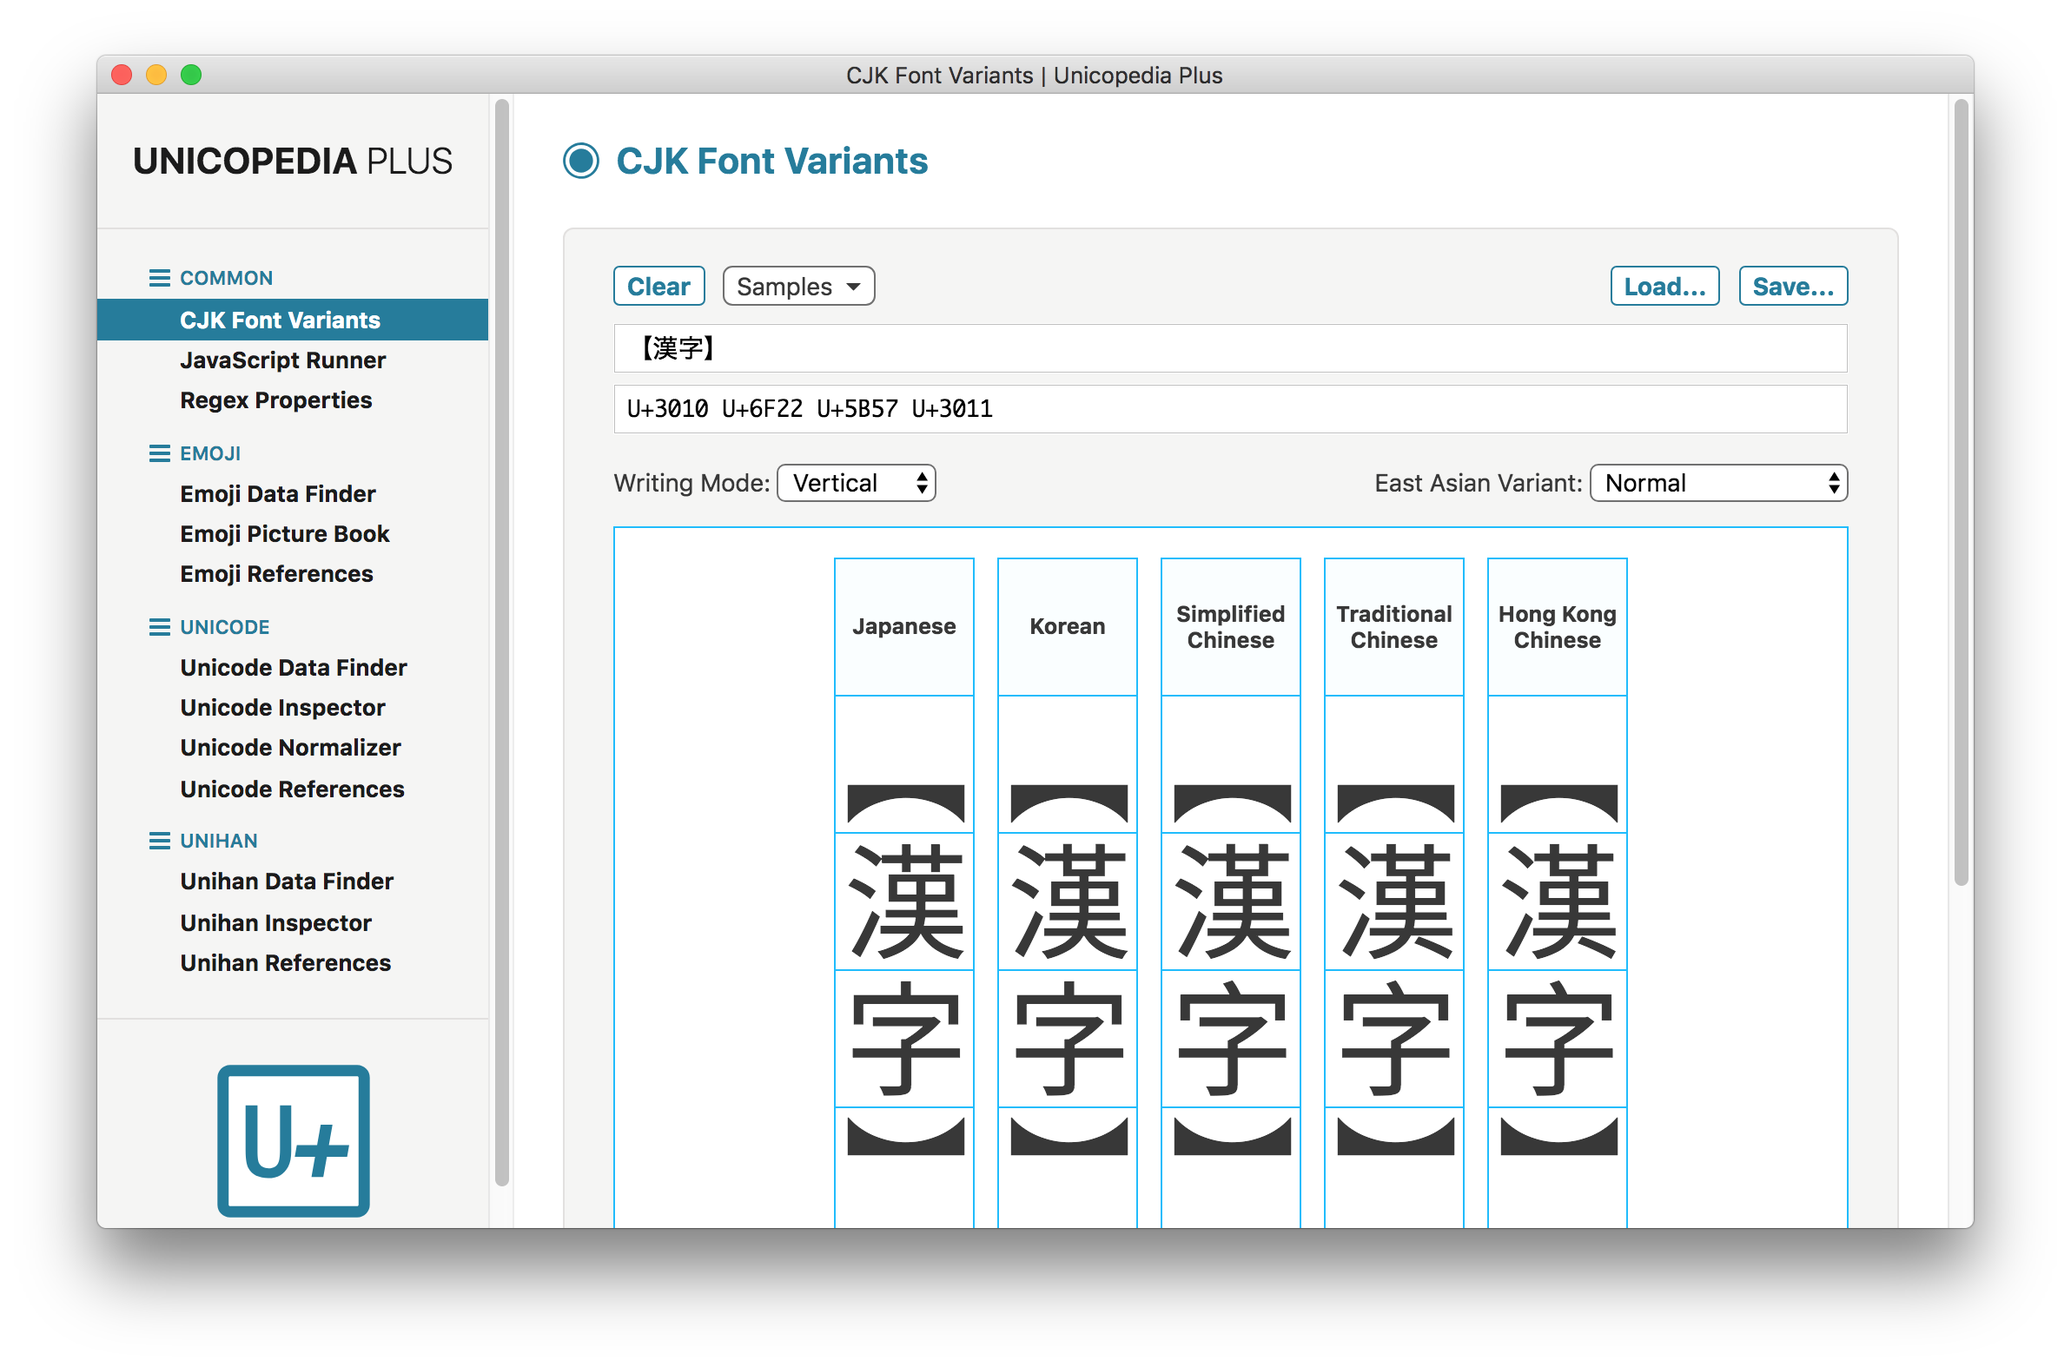
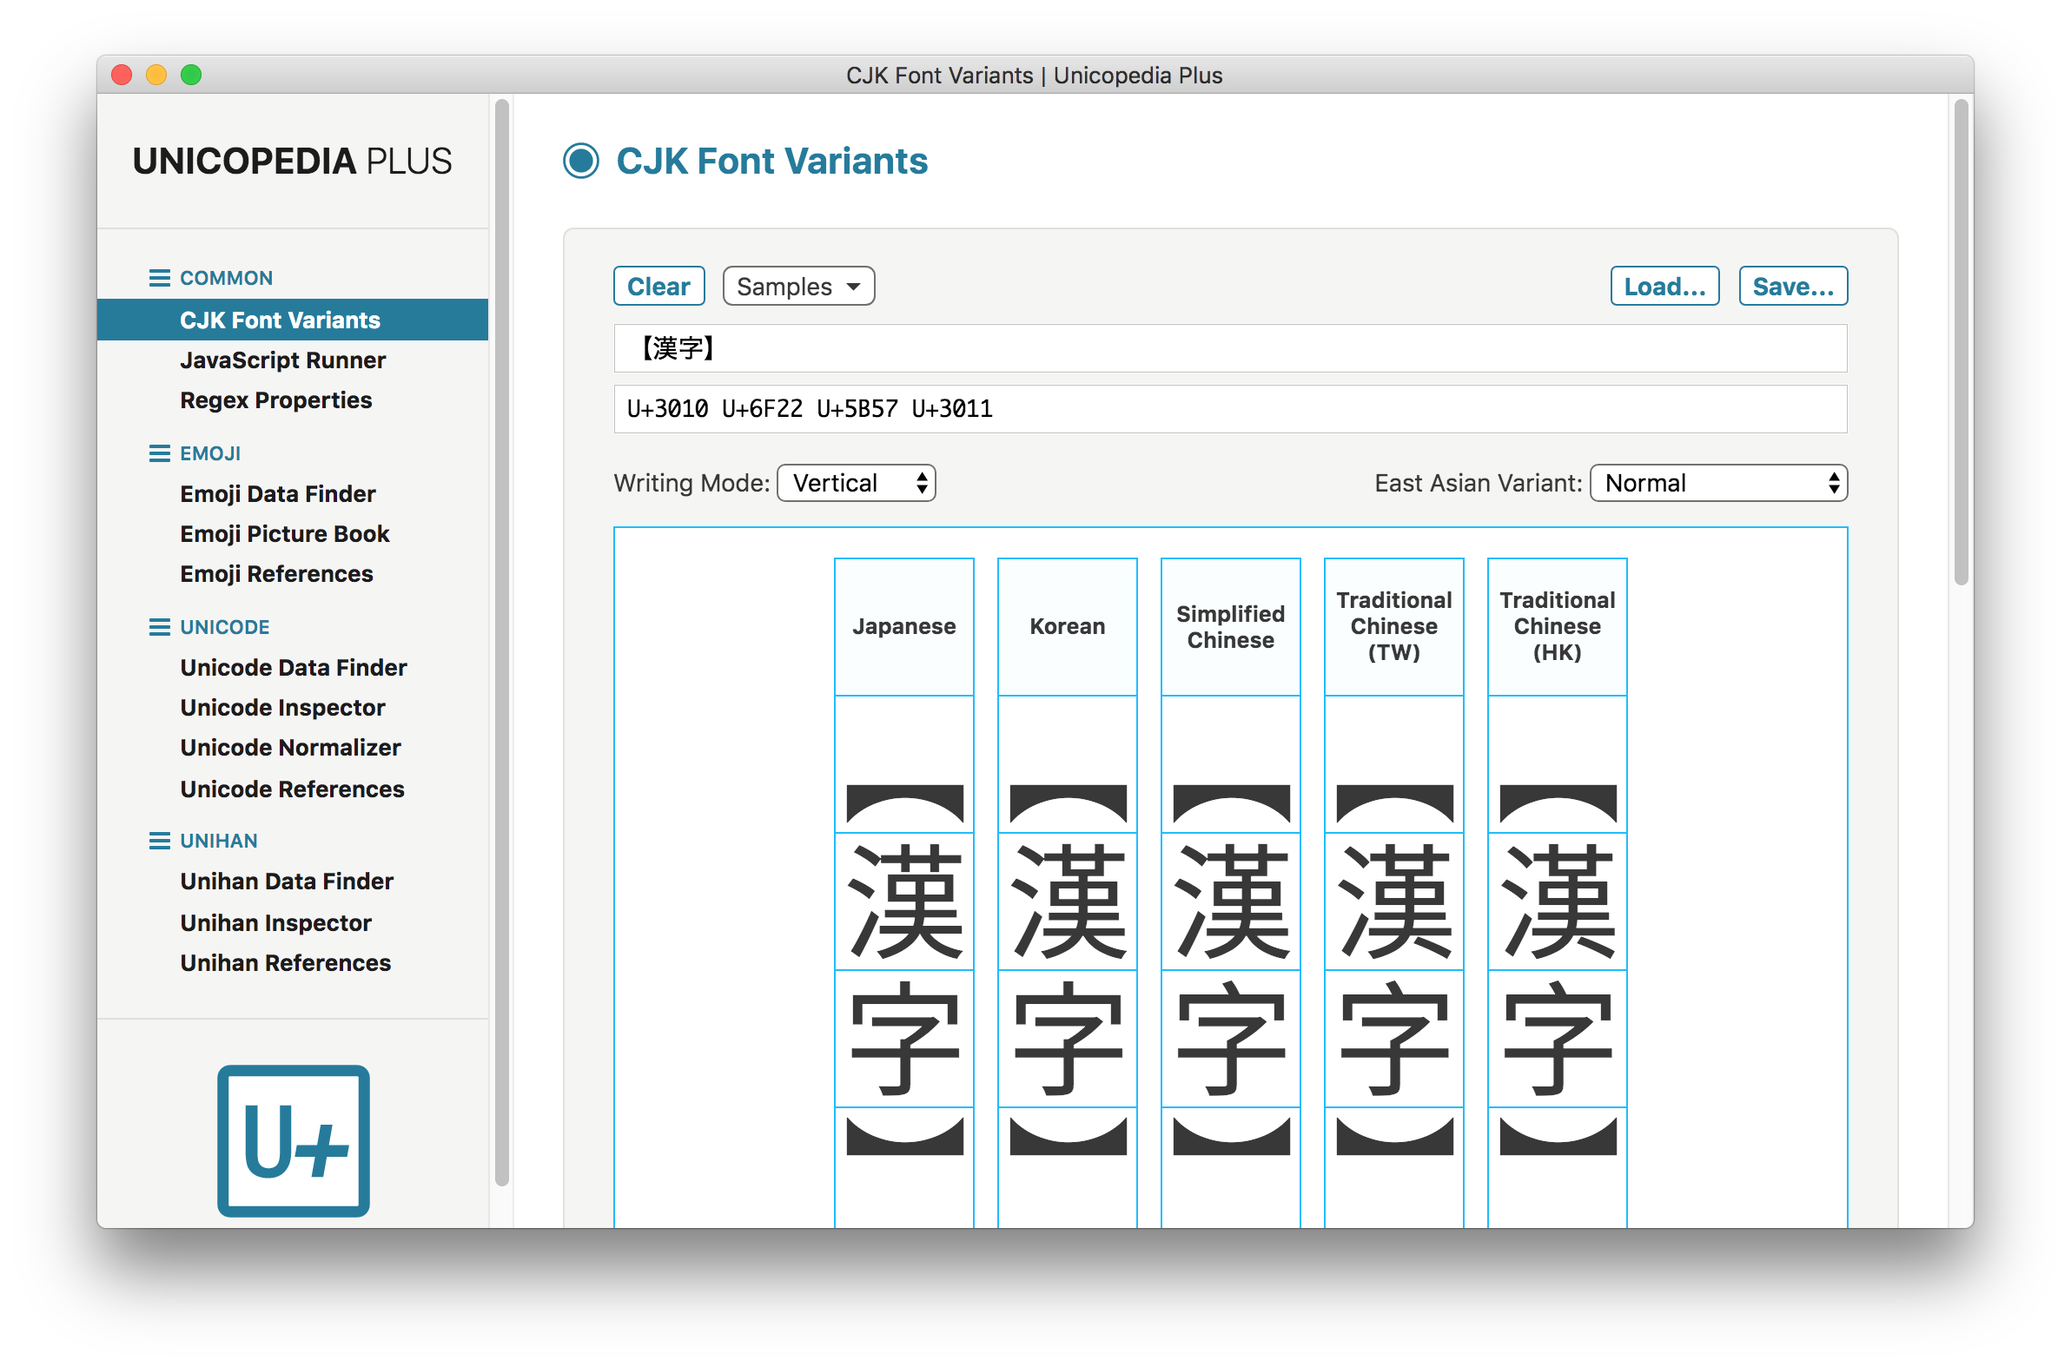
Updated app to 5.6.1

Changed region(s): [[0.9312, 0.4358, 0.9622, 0.6537], [0.6518, 0.4358, 0.776, 0.4981]]

diff --git a/renderer/units/Unihan Inspector/import.html b/renderer/units/Unihan Inspector/import.html
@@ -38,18 +38,28 @@
                     </li>
                     <li>Previously looked up Unihan characters are kept in a history stack; use the <kbd>Alt</kbd>+<kbd>↑</kbd> and <kbd>Alt</kbd>+<kbd>↓</kbd> keyboard shortcuts to navigate through them up and down inside the input field.</li>
                     <li>It is also possible to lookup a randomly selected Unihan character by clicking on the <kbd>Random</kbd> button; use the <kbd>Full Set</kbd> checkbox to perform the draw on the full set of 88,889 Unihan characters, or restrict it to the IICore set of 9,810 CJK unified ideographs in common usage.</li>
-                    <li>The currently looked up Unihan character is displayed at a large scale, followed by its code point; click on <kbd>◀</kbd> or <kbd>▶</kbd> to step through several different CJK typefaces, among: <code>JP</code> (Japanese), <code>KR</code> (Korean), <code>SC</code> (Simplified Chinese), <code>TC</code> (Traditional Chinese), <code>HK</code> (Hong Kong Chinese). Double-click on the two-letter language tag to toggle between these five CJK typefaces and the system default typeface.</li>
+                    <li>The currently looked up Unihan character is displayed at a large scale, followed by its code point.</li>
+                    <li>Click on <kbd>◀</kbd> or <kbd>▶</kbd> to step through five different CJK typefaces, among:
+                        <ul>
+                            <li><code>JP</code>: Japanese</li>
+                            <li><code>KR</code>: Korean</li>
+                            <li><code>SC</code>: Simplified Chinese</li>
+                            <li><code>TC</code>: Traditional Chinese (Taiwan)</li>
+                            <li><code>HK</code>: Traditional Chinese (Hong Kong)</li>
+                        </ul>
+                    </li>
+                    <li>Double-click on the two-letter language tag to toggle between these five CJK typefaces and the system default typeface.</li>
                     <li>Use the <kbd>Categories</kbd> checkbox to toggle between: all Unihan tags ordered alphabetically, or grouped by categories.</li>
                     <li>Variant characters, if any, are listed under several classes in the basic Unihan information panel, excluding the looked up character itself:
                         <ul>
-                            <li><code>Unified Variant</code>: decomposition of the looked up character.</li>
-                            <li><code>Compatibility Variants</code>: characters whose decomposition is the looked up character.</li>
-                            <li><code>Semantic Variants</code>: characters listed under the <em>kSemanticVariant</em> Unihan tag.</li>
-                            <li><code>Specialized Variants</code>: characters listed under the <em>kSpecializedSemanticVariant</em> Unihan tag.</li>
-                            <li><code>Shape Variants</code> characters listed under the <em>kZVariant</em> Unihan tag.</li>
-                            <li><code>Simplified Variants</code>: characters listed under the <em>kSimplifiedVariant</em> Unihan tag.</li>
-                            <li><code>Traditional Variants</code>: characters listed under the <em>kTraditionalVariant</em> Unihan tag.</li>
-                            <li><code>Yasuoka Variants</code>: characters drawn from the "Variants table for Unicode" data file <a title="http://kanji.zinbun.kyoto-u.ac.jp/~yasuoka/ftp/CJKtable/UniVariants.Z" href="http://kanji.zinbun.kyoto-u.ac.jp/~yasuoka/ftp/CJKtable/UniVariants.Z">UniVariants.txt</a> provided by Prof. <a title="http://kanji.zinbun.kyoto-u.ac.jp/~yasuoka/" href="http://kanji.zinbun.kyoto-u.ac.jp/~yasuoka/">Kōichi Yasuoka</a>.</li>
+                            <li><code>Unified Variant</code>: decomposition of the looked up character</li>
+                            <li><code>Compatibility Variants</code>: characters whose decomposition is the looked up character</li>
+                            <li><code>Semantic Variants</code>: characters listed under the <em>kSemanticVariant</em> Unihan tag</li>
+                            <li><code>Specialized Variants</code>: characters listed under the <em>kSpecializedSemanticVariant</em> Unihan tag</li>
+                            <li><code>Shape Variants</code> characters listed under the <em>kZVariant</em> Unihan tag</li>
+                            <li><code>Simplified Variants</code>: characters listed under the <em>kSimplifiedVariant</em> Unihan tag</li>
+                            <li><code>Traditional Variants</code>: characters listed under the <em>kTraditionalVariant</em> Unihan tag</li>
+                            <li><code>Yasuoka Variants</code>: characters drawn from the "Variants table for Unicode" data file <a title="http://kanji.zinbun.kyoto-u.ac.jp/~yasuoka/ftp/CJKtable/UniVariants.Z" href="http://kanji.zinbun.kyoto-u.ac.jp/~yasuoka/ftp/CJKtable/UniVariants.Z">UniVariants.txt</a> provided by Prof. <a title="http://kanji.zinbun.kyoto-u.ac.jp/~yasuoka/" href="http://kanji.zinbun.kyoto-u.ac.jp/~yasuoka/">Kōichi Yasuoka</a></li>
                         </ul>
                     </li>
                     <li>Notes:

diff --git a/renderer/units/Unihan Inspector/import.js b/renderer/units/Unihan Inspector/import.js
@@ -75,10 +75,10 @@ module.exports.start = function (context)
     const languages =
     {
         "ja": { label: "JP", title: "Japanese typeface" },
-        "ko":  { label: "KR", title: "Korean typeface" },
+        "ko": { label: "KR", title: "Korean typeface" },
         "zh-Hans": { label: "SC", title: "Simplified Chinese typeface" },
-        "zh-Hant": { label: "TC", title: "Traditional Chinese typeface" },
-        "zh-HK": { label: "HK", title: "Hong Kong Chinese typeface" }
+        "zh-Hant-TW": { label: "TC", title: "Traditional Chinese (Taiwan) typeface" },
+        "zh-Hant-HK": { label: "HK", title: "Traditional Chinese (Hong Kong) typeface" }
     };
     const languageKeys = Object.keys (languages);
     //
@@ -343,6 +343,7 @@ module.exports.start = function (context)
                     { name: "Definition", value: definitionValue, class: 'line-clamp' },
                     { name: "Numeric Value", value: numericValue },
                     { name: "Set", value: iiCoreSet },
+                    // null,
                     { name: "Unified Variant", value: unified, separator: " " },
                     { name: "Compatibility Variants", value: compatibility, separator: " " },
                     { name: "Semantic Variants", value: semantic, separator: " " },
@@ -355,7 +356,12 @@ module.exports.start = function (context)
                 //
                 for (let unihanField of unihanFields)
                 {
-                    if (unihanField.value)
+                    if (!unihanField)
+                    {
+                        let lineBreak = document.createElement ('br');
+                        unihanInfo.appendChild (lineBreak);
+                    }
+                    else if (unihanField.value)
                     {
                         let field = document.createElement ('div');
                         field.className = 'field';

diff --git a/renderer/units/CJK Font Variants/import.js b/renderer/units/CJK Font Variants/import.js
@@ -139,11 +139,11 @@ module.exports.start = function (context)
     //
     const languages =
     [
-        { header: "Japanese", tag: 'ja', code: "JP" },
-        { header: "Korean", tag: 'ko', code: "KR" },
-        { header: "Simplified Chinese", tag: 'zh-Hans', code: "SC" },
-        { header: "Traditional Chinese", tag: 'zh-Hant', code: "TC" },
-        { header: "Hong\xA0Kong Chinese", tag: 'zh-HK', code: "HK" }
+        { name: "Japanese", tag: 'ja', code: "JP" },
+        { name: "Korean", tag: 'ko', code: "KR" },
+        { name: "Simplified Chinese", tag: 'zh-Hans', code: "SC" },
+        { name: "Traditional Chinese (TW)", tag: 'zh-Hant-TW', code: "TC" },
+        { name: "Traditional Chinese (HK)", tag: 'zh-Hant-HK', code: "HK" }
     ];
     //
     const useFooter = true;
@@ -279,7 +279,7 @@ module.exports.start = function (context)
                         header.className = 'cjk-title';
                         header.title = `Code: ${language.code}\nlang="${language.tag}"`;
                         let span = document.createElement ('span');
-                        span.textContent = language.header;
+                        span.textContent = language.name;
                         header.appendChild (span);
                         headerRow.appendChild (header);
                     }
@@ -366,7 +366,7 @@ module.exports.start = function (context)
                         header.title = `Code: ${language.code}\nlang="${language.tag}"`;
                         let span = document.createElement ('span');
                         span.className = 'cjk-lang';
-                        span.textContent = language.header;
+                        span.textContent = language.name;
                         header.appendChild (span);
                         dataRow.appendChild (header);
                         wideCharacters.forEach

diff --git a/renderer/units/CJK Font Variants/import.html b/renderer/units/CJK Font Variants/import.html
@@ -65,8 +65,8 @@
                             <tr><td>Japanese</td><td class="code">JP</td><td>Noto Sans CJK JP Regular</td></tr>
                             <tr><td>Korean</td><td class="code">KR</td><td>Noto Sans CJK KR Regular</td></tr>
                             <tr><td>Simplified Chinese</td><td class="code">SC</td><td>Noto Sans CJK SC Regular</td></tr>
-                            <tr><td>Traditional Chinese</td><td class="code">TC</td><td>Noto Sans CJK TC Regular</td></tr>
-                            <tr><td>Hong Kong Chinese</td><td class="code">HK</td><td>Noto Sans CJK HK Regular</td></tr>
+                            <tr><td>Traditional Chinese (Taiwan)</td><td class="code">TC</td><td>Noto Sans CJK TC Regular</td></tr>
+                            <tr><td>Traditional Chinese (Hong Kong)</td><td class="code">HK</td><td>Noto Sans CJK HK Regular</td></tr>
                         </table>
                     </li>
                     <li>Additionally, it is possible to specify a set of logographic glyph variants for display by using the <kbd>East Asian Variant</kbd> drop-down menu.</li>

diff --git a/renderer/units/CJK Font Variants/import.css b/renderer/units/CJK Font Variants/import.css
@@ -81,14 +81,14 @@
     font-family: "Sans CJK SC", "NotDef";
 }
 
-#cjk-font-variants-unit .cjk-data-base:lang(zh-Hant),
-#cjk-font-variants-unit .cjk-data-overlay:lang(zh-Hant)
+#cjk-font-variants-unit .cjk-data-base:lang(zh-Hant-TW),
+#cjk-font-variants-unit .cjk-data-overlay:lang(zh-Hant-TW)
 {
     font-family: "Sans CJK TC", "NotDef";
 }
 
-#cjk-font-variants-unit .cjk-data-base:lang(zh-HK),
-#cjk-font-variants-unit .cjk-data-overlay:lang(zh-HK)
+#cjk-font-variants-unit .cjk-data-base:lang(zh-Hant-HK),
+#cjk-font-variants-unit .cjk-data-overlay:lang(zh-Hant-HK)
 {
     font-family: "Sans CJK HK", "NotDef";
 }

diff --git a/main.js b/main.js
@@ -22,8 +22,7 @@ else
                 {
                     mainWindow.restore ();
                 }
-                // mainWindow.focus ();
-                mainWindow.show (); // Work around Electron v6.x.x bug on macOS...
+                mainWindow.show ();
             }
         }
     );
@@ -97,7 +96,7 @@ else
         }
         else
         {
-            licenseWindow.focus ();
+            licenseWindow.show ();
         }
     }
     //

diff --git a/renderer/units/Unihan Inspector/import.css b/renderer/units/Unihan Inspector/import.css
@@ -65,12 +65,12 @@
     font-family: "Sans CJK SC", "NotDef";
 }
 
-#unihan-inspector-unit .unihan-character:lang(zh-Hant)
+#unihan-inspector-unit .unihan-character:lang(zh-Hant-TW)
 {
     font-family: "Sans CJK TC", "NotDef";
 }
 
-#unihan-inspector-unit .unihan-character:lang(zh-HK)
+#unihan-inspector-unit .unihan-character:lang(zh-Hant-HK)
 {
     font-family: "Sans CJK HK", "NotDef";
 }

diff --git a/README.md b/README.md
@@ -40,8 +40,8 @@ The following utilities are currently available:
 | Japanese | JP | Noto Sans CJK JP Regular |
 | Korean | KR | Noto Sans CJK KR Regular |
 | Simplified Chinese | SC | Noto Sans CJK SC Regular |
-| Traditional Chinese | TC | Noto Sans CJK TC Regular |
-| Hong Kong Chinese | HK | Noto Sans CJK HK Regular |
+| Traditional Chinese (Taiwan) | TC | Noto Sans CJK TC Regular |
+| Traditional Chinese (Hong Kong) | HK | Noto Sans CJK HK Regular |
 
 - Additionally, it is possible to specify a set of logographic glyph variants for display by using the <kbd>East Asian Variant</kbd> drop-down menu.
 - Font variants of the CJK characters can be visualized either vertically or horizontally. Use the <kbd>Writing Mode</kbd> drop-down menu to toggle between the two modes.
@@ -340,17 +340,24 @@ The following utilities are currently available:
     - basic Unihan information: radical/strokes, definition, numeric value, IICore set, variant characters.
 - Previously looked up Unihan characters are kept in a history stack; use the <kbd>Alt</kbd>+<kbd>↑</kbd> and <kbd>Alt</kbd>+<kbd>↓</kbd> keyboard shortcuts to navigate through them up and down inside the input field.
 - It is also possible to lookup a randomly selected Unihan character by clicking on the <kbd>Random</kbd> button; use the <kbd>Full Set</kbd> checkbox to perform the draw on the full set of 88,889 Unihan characters, or restrict it to the IICore set of 9,810 CJK unified ideographs in common usage.
-- The currently looked up Unihan character is displayed at a large scale, followed by its code point; click on <kbd>◀</kbd> or <kbd>▶</kbd> to step through several different CJK typefaces, among: `JP` (Japanese), `KR` (Korean), `SC` (Simplified Chinese), `TC` (Traditional Chinese), `HK` (Hong Kong Chinese). Double-click on the two-letter language tag to toggle between these five CJK typefaces and the system default typeface.
+- The currently looked up Unihan character is displayed at a large scale, followed by its code point.
+- Click on <kbd>◀</kbd> or <kbd>▶</kbd> to step through five different CJK typefaces, among:
+    - `JP`: Japanese
+    - `KR`: Korean
+    - `SC`: Simplified Chinese
+    - `TC`: Traditional Chinese (Taiwan)
+    - `HK`: Traditional Chinese (Hong Kong)
+- Double-click on the two-letter language tag to toggle between these five CJK typefaces and the system default typeface.
 - Use the <kbd>Categories</kbd> checkbox to toggle between: all Unihan tags ordered alphabetically, or grouped by categories.
 - Variant characters, if any, are listed under several classes in the basic Unihan information panel, excluding the looked up character itself:
-    - `Unified Variant`: decomposition of the looked up character.
-    - `Compatibility Variants`: characters whose decomposition is the looked up character.
-    - `Semantic Variants`: characters listed under the *kSemanticVariant* Unihan tag.
-    - `Specialized Variants`: characters listed under the *kSpecializedSemanticVariant* Unihan tag.
-    - `Shape Variants` characters listed under the *kZVariant* Unihan tag.
-    - `Simplified Variants`: characters listed under the *kSimplifiedVariant* Unihan tag.
-    - `Traditional Variants`: characters listed under the *kTraditionalVariant* Unihan tag.
-    - `Yasuoka Variants`: characters drawn from the "Variants table for Unicode" data file <a title="http://kanji.zinbun.kyoto-u.ac.jp/~yasuoka/ftp/CJKtable/UniVariants.Z" href="http://kanji.zinbun.kyoto-u.ac.jp/~yasuoka/ftp/CJKtable/UniVariants.Z">UniVariants.txt</a> provided by Prof. <a title="http://kanji.zinbun.kyoto-u.ac.jp/~yasuoka/" href="http://kanji.zinbun.kyoto-u.ac.jp/~yasuoka/">Kōichi Yasuoka</a>.
+    - `Unified Variant`: decomposition of the looked up character
+    - `Compatibility Variants`: characters whose decomposition is the looked up character
+    - `Semantic Variants`: characters listed under the *kSemanticVariant* Unihan tag
+    - `Specialized Variants`: characters listed under the *kSpecializedSemanticVariant* Unihan tag
+    - `Shape Variants` characters listed under the *kZVariant* Unihan tag
+    - `Simplified Variants`: characters listed under the *kSimplifiedVariant* Unihan tag
+    - `Traditional Variants`: characters listed under the *kTraditionalVariant* Unihan tag
+    - `Yasuoka Variants`: characters drawn from the "Variants table for Unicode" data file <a title="http://kanji.zinbun.kyoto-u.ac.jp/~yasuoka/ftp/CJKtable/UniVariants.Z" href="http://kanji.zinbun.kyoto-u.ac.jp/~yasuoka/ftp/CJKtable/UniVariants.Z">UniVariants.txt</a> provided by Prof. <a title="http://kanji.zinbun.kyoto-u.ac.jp/~yasuoka/" href="http://kanji.zinbun.kyoto-u.ac.jp/~yasuoka/">Kōichi Yasuoka</a>
 - Notes:
     - The top Radical/Strokes fields are displaying data obtained from the only informative IRG Source: *kRSUnicode*, while the bottom ones (in grayed-out style, if any) make use of the provisional sources: *kRSKangXi*, *kRSJapanese*, *kRSKanWa*, *kRSKorean* and *kRSAdobe_Japan1_6*.
     - IICore (*International Ideographs Core*) represents a set of 9,810 important Unihan characters in everyday use throughout East Asia; it has been developed by the IRG.
